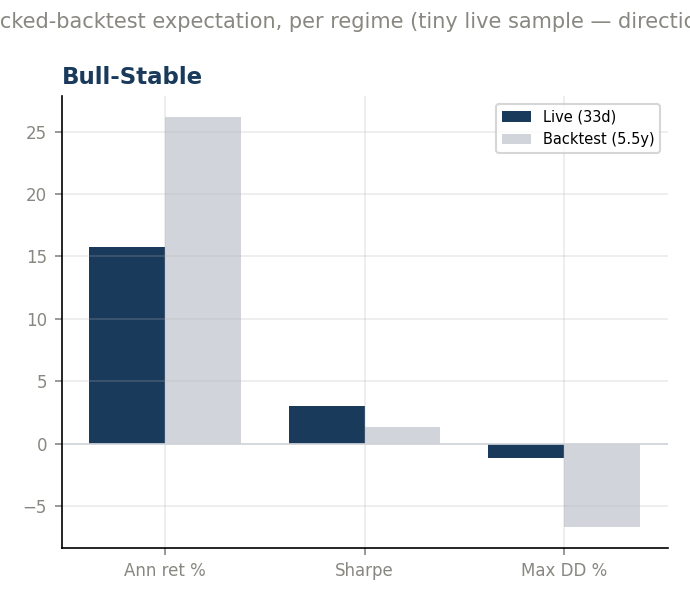
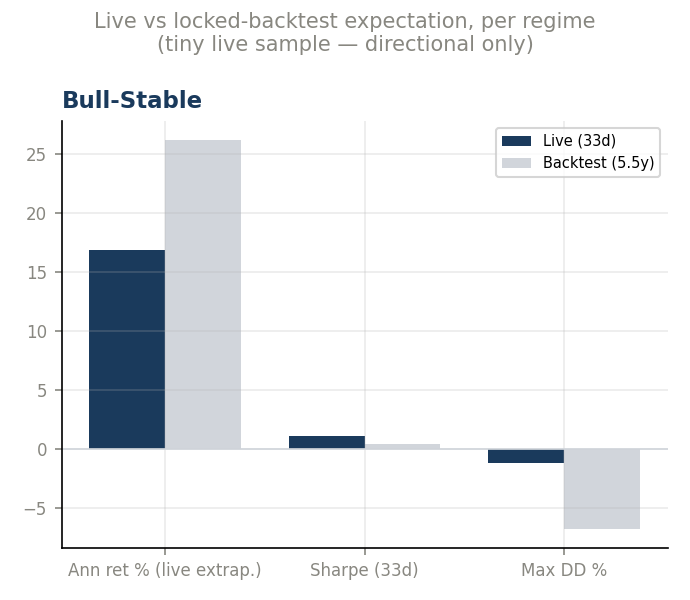
Month-end: measure risk metrics over actual trading days; extrapolate only ann. return
Sharpe, Sortino, Calmar and volatility are now computed over the days
actually traded (not annualized); annual return is the only annualized
figure and is labelled as an extrapolation (period return compounded to
252 days). Sortino uses the standard downside deviation. The backtest's
annual Sharpe is scaled to the live horizon for a like-for-like
comparison. Reports for 2026-07/08/09 and the README updated.

diff --git a/8_live_trading/aria_momentum_month_end.py b/8_live_trading/aria_momentum_month_end.py
@@ -130,6 +130,36 @@ def cross_check(hist, eq):
 # ══════════════════════════════════════════════════════════════════════════════
 # QUANT METRICS  (from daily_history.csv)
 # ══════════════════════════════════════════════════════════════════════════════
+def period_stats(r, eqv) -> dict:
+    """Risk/return over the ACTUAL trading days only — nothing annualized
+    except ann_ret, which is an explicit extrapolation.
+
+      period_ret  compounded return over the n days
+      ann_ret     EXTRAPOLATED: (1 + period_ret)^(252/n) − 1 — what the period
+                  return would compound to over a year if repeated; a
+                  projection, not a measurement
+      period_vol  daily stdev × √n             (volatility over the period)
+      sharpe      mean / stdev × √n            (period Sharpe, rf = 0)
+      sortino     mean / downside dev × √n     downside dev = √mean(min(r,0)²)
+      calmar      period_ret / |max drawdown|  (same window, no annualizing)
+    """
+    r = np.asarray(r, dtype=float)
+    r = r[~np.isnan(r)]
+    n = len(r)
+    out = {"n_obs": n}
+    out["period_ret"] = (np.prod(1 + r) - 1) * 100
+    out["ann_ret"]    = ((1 + out["period_ret"] / 100) ** (TRADING_DAYS / n) - 1) * 100 if n else np.nan
+    mu, sd = (r.mean(), r.std(ddof=1)) if n > 1 else (np.nan, np.nan)
+    dsd = np.sqrt(np.mean(np.minimum(r, 0) ** 2)) if n else np.nan
+    out["period_vol"] = sd * np.sqrt(n) * 100 if sd > 0 else np.nan
+    out["sharpe"]     = mu / sd * np.sqrt(n) if sd > 0 else np.nan
+    out["sortino"]    = mu / dsd * np.sqrt(n) if dsd > 0 else np.nan
+    eqv = np.asarray(eqv, dtype=float)
+    out["max_dd"] = (eqv / np.maximum.accumulate(eqv) - 1).min() * 100 if len(eqv) > 1 else 0.0
+    out["calmar"] = out["period_ret"] / abs(out["max_dd"]) if out["max_dd"] < 0 else np.nan
+    return out
+
+
 def quant_metrics(hist: pd.DataFrame) -> dict:
     m = {}
     m["start"], m["end"] = hist["date"].iloc[0], hist["date"].iloc[-1]
@@ -150,19 +180,11 @@ def quant_metrics(hist: pd.DataFrame) -> dict:
     m["alpha_spy"] = hist["alpha_vs_spy"].iloc[-1]
     m["alpha_qqq"] = hist["alpha_vs_qqq"].iloc[-1]
 
-    mu, sd = np.nanmean(r), np.nanstd(r, ddof=1)
-    dn_dev = np.nanstd(np.minimum(r, 0), ddof=1)
-    m["ann_ret"] = mu * TRADING_DAYS * 100
-    m["ann_vol"] = sd * np.sqrt(TRADING_DAYS) * 100 if sd > 0 else np.nan
-    m["sharpe"]  = mu / sd * np.sqrt(TRADING_DAYS) if sd > 0 else np.nan
-    m["sortino"] = mu / dn_dev * np.sqrt(TRADING_DAYS) if dn_dev > 0 else np.nan
-
     eqv  = hist["equity"].values
     peak = np.maximum.accumulate(eqv)
     dd   = eqv / peak - 1
     m["dd_series"] = dd * 100
-    m["max_dd"]    = dd.min() * 100
-    m["calmar"]    = m["ann_ret"] / abs(m["max_dd"]) if m["max_dd"] < 0 else np.nan
+    m.update(period_stats(r, eqv))
 
     mask = ~np.isnan(r) & ~np.isnan(spy_r)
     if mask.sum() > 2 and np.nanstd(spy_r[mask]) > 0:
@@ -202,16 +224,11 @@ def regime_attribution(hist: pd.DataFrame) -> pd.DataFrame:
     rows = []
     for regime, g in hist.groupby("regime"):
         r = g["daily_pnl_pct"].values / 100.0
-        n = len(g)
-        mu, sd = np.nanmean(r), np.nanstd(r, ddof=1) if n > 1 else np.nan
-        eqv = g["equity"].values
-        dd = (eqv / np.maximum.accumulate(eqv) - 1).min() * 100 if n > 1 else 0.0
+        s = period_stats(r, g["equity"].values)
         rows.append({
-            "regime": regime, "days": n,
-            "period_ret": (np.prod(1 + np.nan_to_num(r)) - 1) * 100,
-            "ann_ret": mu * TRADING_DAYS * 100,
-            "sharpe": (mu / sd * np.sqrt(TRADING_DAYS)) if sd and sd > 0 else np.nan,
-            "max_dd": dd,
+            "regime": regime, "days": len(g),
+            "period_ret": s["period_ret"], "ann_ret": s["ann_ret"],
+            "sharpe": s["sharpe"], "max_dd": s["max_dd"],
             "hit_rate": (r > 0).sum() / max((r != 0).sum(), 1) * 100,
         })
     out = pd.DataFrame(rows).sort_values("days", ascending=False).reset_index(drop=True)
@@ -227,10 +244,14 @@ def backtest_parity(reg_attr: pd.DataFrame) -> pd.DataFrame:
         bt = BACKTEST["regimes"].get(r["regime"])
         if bt is None:
             continue
+        # Live Sharpe covers only the live days; the backtest's is annual.
+        # Sharpe scales with √time, so put the backtest on the same horizon.
+        horizon = np.sqrt(r["days"] / TRADING_DAYS)
         rows.append({
             "regime": r["regime"], "days_live": r["days"],
             "live_ann": r["ann_ret"],  "bt_ann": bt["ann_ret"],
-            "live_sharpe": r["sharpe"], "bt_sharpe": bt["sharpe"],
+            "live_sharpe": r["sharpe"], "bt_sharpe": bt["sharpe"] * horizon,
+            "bt_sharpe_annual": bt["sharpe"],
             "live_dd": r["max_dd"],     "bt_dd": bt["max_dd"],
         })
     return pd.DataFrame(rows)
@@ -565,7 +586,7 @@ def make_charts(hist, qm, reg_attr, parity, trips, opos, mbm, outdir: Path, infl
         fig, axes = plt.subplots(1, len(parity), figsize=(4.6 * len(parity), 4),
                                  squeeze=False)
         for ax, (_, row) in zip(axes[0], parity.iterrows()):
-            labels = ["Ann ret %", "Sharpe", "Max DD %"]
+            labels = ["Ann ret % (live extrap.)", f"Sharpe ({int(row['days_live'])}d)", "Max DD %"]
             live = [row["live_ann"], row["live_sharpe"], row["live_dd"]]
             bt   = [row["bt_ann"], row["bt_sharpe"], row["bt_dd"]]
             x = np.arange(3); w = 0.38
@@ -575,7 +596,7 @@ def make_charts(hist, qm, reg_attr, parity, trips, opos, mbm, outdir: Path, infl
             ax.axhline(0, color=MGREY, lw=0.8)
             ax.legend(fontsize=7)
             _style(ax, f"{row['regime']}")
-        plt.suptitle("Live vs locked-backtest expectation, per regime "
+        plt.suptitle("Live vs locked-backtest expectation, per regime\n"
                      "(tiny live sample — directional only)",
                      fontsize=10, color=GREY)
         plt.tight_layout()
@@ -756,12 +777,18 @@ def write_report(qm, reg_attr, parity, trips, opos, mbm, hold_note, xcheck,
               f"{r['real_ret_pct']:+.2f}% | {'est.' if r['cpi_is_estimate'] else 'actual'} |")
         A("")
 
-    A("## Risk-adjusted (annualized from daily — small sample!)")
+    A(f"## Risk-adjusted (over the {qm['n_obs']} trading days — not annualized)")
+    A(f"_Sharpe, Sortino, Calmar and volatility are measured over the "
+      f"{qm['n_obs']} trading days actually traded (rf = 0). The only "
+      f"annualized figure is **Ann. return**, an EXTRAPOLATION: the period "
+      f"return compounded to 252 trading days, i.e. what a full year would "
+      f"look like if this pace held — a projection, not a measurement._\n")
+    A(f"- Period return **{qm['period_ret']:+.2f}%** · period volatility "
+      f"{qm['period_vol']:.2f}% · max drawdown **{qm['max_dd']:.2f}%** "
+      f"(backtest budget {BACKTEST['max_dd']}%)")
     A(f"- Sharpe **{qm['sharpe']:.2f}** · Sortino **{qm['sortino']:.2f}** · "
       f"Calmar {qm['calmar']:.2f}")
-    A(f"- Ann. return {qm['ann_ret']:+.1f}% · ann. vol {qm['ann_vol']:.1f}% · "
-      f"max drawdown **{qm['max_dd']:.2f}%** "
-      f"(backtest budget {BACKTEST['max_dd']}%)")
+    A(f"- Ann. return (extrapolated) {qm['ann_ret']:+.1f}%")
     A(f"- Beta vs SPY {qm['beta_spy']:.2f} (corr {qm['corr_spy']:.2f}) · "
       f"up-capture {qm['up_capture']:.0f}% · down-capture {qm['down_capture']:.0f}%")
     A(f"- Hit rate {qm['hit_rate']:.0f}% ({qm['win_days']}W/{qm['lose_days']}L) · "
@@ -769,7 +796,7 @@ def write_report(qm, reg_attr, parity, trips, opos, mbm, hold_note, xcheck,
     A(f"- Avg capital deployed {qm['avg_deployed']:.0f}%\n")
 
     A("## Regime attribution  *(signature)*")
-    A("| Regime | Days | Period ret | Ann ret | Sharpe | Max DD | Hit |")
+    A("| Regime | Days | Period ret | Ann ret (extrap.) | Sharpe (period) | Max DD | Hit |")
     A("|---|---|---|---|---|---|---|")
     for _, r in reg_attr.iterrows():
         A(f"| {r['regime']} | {int(r['days'])} | {r['period_ret']:+.2f}% | "
@@ -779,14 +806,18 @@ def write_report(qm, reg_attr, parity, trips, opos, mbm, hold_note, xcheck,
 
     A("## Backtest parity  *(signature)*")
     A("_Live per-regime vs the locked 95.55% backtest's expectation for the "
-      "same regime. With days this few, read direction, not magnitude._\n")
+      "same regime. With days this few, read direction, not magnitude. "
+      "Live ann. return is extrapolated from the live days. Live Sharpe covers "
+      "only the live days, so the backtest's annual Sharpe is scaled to the "
+      "same horizon (× √(days/252)) to compare like with like._\n")
     if len(parity):
-        A("| Regime | Live days | Live ann | BT ann | Live Sharpe | BT Sharpe | Live DD | BT DD |")
+        A("| Regime | Live days | Live ann (extrap.) | BT ann | Live Sharpe | "
+          "BT Sharpe, same horizon (annual) | Live DD | BT DD |")
         A("|---|---|---|---|---|---|---|---|")
         for _, r in parity.iterrows():
             A(f"| {r['regime']} | {int(r['days_live'])} | {r['live_ann']:+.1f}% | "
-              f"{r['bt_ann']:+.1f}% | {r['live_sharpe']:.2f} | {r['bt_sharpe']:.2f} | "
-              f"{r['live_dd']:.2f}% | {r['bt_dd']:.2f}% |")
+              f"{r['bt_ann']:+.1f}% | {r['live_sharpe']:.2f} | {r['bt_sharpe']:.2f} "
+              f"({r['bt_sharpe_annual']:.2f}) | {r['live_dd']:.2f}% | {r['bt_dd']:.2f}% |")
     else:
         A("No overlapping regimes yet.")
     A("")
@@ -877,7 +908,9 @@ def main():
     print(f"  Return   : {qm['total_ret']:+.2f}%   "
           f"(SPY {qm['spy_since']:+.2f}%, QQQ {qm['qqq_since']:+.2f}%)")
     print(f"  Alpha    : vs SPY {qm['alpha_spy']:+.2f}pp | vs QQQ {qm['alpha_qqq']:+.2f}pp")
-    print(f"  Sharpe   : {qm['sharpe']:.2f}   Sortino {qm['sortino']:.2f}   "
+    print(f"  Period   : {qm['n_obs']}d  Sharpe {qm['sharpe']:.2f}   Sortino {qm['sortino']:.2f}   "
+          f"Calmar {qm['calmar']:.2f}   vol {qm['period_vol']:.2f}%  (not annualized)")
+    print(f"  Ann. ret : {qm['ann_ret']:+.1f}% (extrapolated)   "
           f"MaxDD {qm['max_dd']:.2f}%  (backtest budget {BACKTEST['max_dd']}%)")
     print(f"  Beta     : {qm['beta_spy']:.2f}   up-cap {qm['up_capture']:.0f}%  "
           f"down-cap {qm['down_capture']:.0f}%")

diff --git a/8_live_trading/month_end/2026-07/report_2026-07.md b/8_live_trading/month_end/2026-07/report_2026-07.md
@@ -1,6 +1,6 @@
 # ARIA-Momentum — Month-End Review 2026-07
 
-_Generated 2026-10-01 11:43 · inception 2026-06-15 → 2026-07-31 · 33 trading days · read-only analysis._
+_Generated 2026-10-01 11:57 · inception 2026-06-15 → 2026-07-31 · 33 trading days · read-only analysis._
 
 > **Sample-size caveat:** a few weeks of live data verifies the machinery and shows behavior; it cannot prove or disprove the edge validated over 5.5 backtest years. Every number below is indicative, not conclusive — especially while the book has traded in only 1 regime(s).
 
@@ -32,24 +32,27 @@ Month-end snapshots (full per-day series in `inflation_real_value.csv`):
 | 2026-06-30 | 100.43 | 100.39 | +0.03% | +0.43% | +0.39% | actual |
 | 2026-07-31 | 102.17 | 101.89 | +0.28% | +2.17% | +1.89% | actual |
 
-## Risk-adjusted (annualized from daily — small sample!)
-- Sharpe **3.04** · Sortino **7.05** · Calmar 13.18
-- Ann. return +15.8% · ann. vol 5.2% · max drawdown **-1.20%** (backtest budget -6.82%)
+## Risk-adjusted (over the 33 trading days — not annualized)
+_Sharpe, Sortino, Calmar and volatility are measured over the 33 trading days actually traded (rf = 0). The only annualized figure is **Ann. return**, an EXTRAPOLATION: the period return compounded to 252 trading days, i.e. what a full year would look like if this pace held — a projection, not a measurement._
+
+- Period return **+2.07%** · period volatility 1.87% · max drawdown **-1.20%** (backtest budget -6.82%)
+- Sharpe **1.10** · Sortino **2.15** · Calmar 1.73
+- Ann. return (extrapolated) +16.9%
 - Beta vs SPY 0.18 (corr 0.43) · up-capture 21% · down-capture 1%
 - Hit rate 45% (15W/18L) · best day +0.81% · worst -0.54%
 - Avg capital deployed 25%
 
 ## Regime attribution  *(signature)*
-| Regime | Days | Period ret | Ann ret | Sharpe | Max DD | Hit |
+| Regime | Days | Period ret | Ann ret (extrap.) | Sharpe (period) | Max DD | Hit |
 |---|---|---|---|---|---|---|
-| Bull-Stable | 33 | +2.07% | +15.8% | 3.04 | -1.20% | 45% |
+| Bull-Stable | 33 | +2.07% | +16.9% | 1.10 | -1.20% | 45% |
 
 ## Backtest parity  *(signature)*
-_Live per-regime vs the locked 95.55% backtest's expectation for the same regime. With days this few, read direction, not magnitude._
+_Live per-regime vs the locked 95.55% backtest's expectation for the same regime. With days this few, read direction, not magnitude. Live ann. return is extrapolated from the live days. Live Sharpe covers only the live days, so the backtest's annual Sharpe is scaled to the same horizon (× √(days/252)) to compare like with like._
 
-| Regime | Live days | Live ann | BT ann | Live Sharpe | BT Sharpe | Live DD | BT DD |
+| Regime | Live days | Live ann (extrap.) | BT ann | Live Sharpe | BT Sharpe, same horizon (annual) | Live DD | BT DD |
 |---|---|---|---|---|---|---|---|
-| Bull-Stable | 33 | +15.8% | +26.2% | 3.04 | 1.33 | -1.20% | -6.72% |
+| Bull-Stable | 33 | +16.9% | +26.2% | 1.10 | 0.48 (1.33) | -1.20% | -6.72% |
 
 ## Trades
 10 closed round trips: 5W / 5L. Losers avg hold 5.0d (fast loser exits = min-hold design working). Winners avg hold 8.4d. Note: min-hold HOLD events (skipped sells on profitable young positions) print to console but are not CSV-logged, so churn AVOIDED is not directly countable here.

diff --git a/8_live_trading/month_end/2026-08/report_2026-08.md b/8_live_trading/month_end/2026-08/report_2026-08.md
@@ -1,6 +1,6 @@
 # ARIA-Momentum — Month-End Review 2026-08
 
-_Generated 2026-10-01 11:43 · inception 2026-06-15 → 2026-08-31 · 54 trading days · read-only analysis._
+_Generated 2026-10-01 11:57 · inception 2026-06-15 → 2026-08-31 · 54 trading days · read-only analysis._
 
 > **Sample-size caveat:** a few weeks of live data verifies the machinery and shows behavior; it cannot prove or disprove the edge validated over 5.5 backtest years. Every number below is indicative, not conclusive — especially while the book has traded in only 1 regime(s).
 
@@ -34,24 +34,27 @@ Month-end snapshots (full per-day series in `inflation_real_value.csv`):
 | 2026-07-31 | 102.17 | 101.89 | +0.28% | +2.17% | +1.89% | actual |
 | 2026-08-31 | 104.08 | 103.58 | +0.48% | +4.08% | +3.58% | est. |
 
-## Risk-adjusted (annualized from daily — small sample!)
-- Sharpe **3.99** · Sortino **9.73** · Calmar 15.30
-- Ann. return +18.3% · ann. vol 4.6% · max drawdown **-1.20%** (backtest budget -6.82%)
+## Risk-adjusted (over the 54 trading days — not annualized)
+_Sharpe, Sortino, Calmar and volatility are measured over the 54 trading days actually traded (rf = 0). The only annualized figure is **Ann. return**, an EXTRAPOLATION: the period return compounded to 252 trading days, i.e. what a full year would look like if this pace held — a projection, not a measurement._
+
+- Period return **+3.97%** · period volatility 2.12% · max drawdown **-1.20%** (backtest budget -6.82%)
+- Sharpe **1.85** · Sortino **3.91** · Calmar 3.32
+- Ann. return (extrapolated) +19.9%
 - Beta vs SPY 0.12 (corr 0.31) · up-capture 20% · down-capture -4%
 - Hit rate 54% (29W/25L) · best day +0.81% · worst -0.54%
 - Avg capital deployed 22%
 
 ## Regime attribution  *(signature)*
-| Regime | Days | Period ret | Ann ret | Sharpe | Max DD | Hit |
+| Regime | Days | Period ret | Ann ret (extrap.) | Sharpe (period) | Max DD | Hit |
 |---|---|---|---|---|---|---|
-| Bull-Stable | 54 | +3.97% | +18.3% | 3.99 | -1.20% | 54% |
+| Bull-Stable | 54 | +3.97% | +19.9% | 1.85 | -1.20% | 54% |
 
 ## Backtest parity  *(signature)*
-_Live per-regime vs the locked 95.55% backtest's expectation for the same regime. With days this few, read direction, not magnitude._
+_Live per-regime vs the locked 95.55% backtest's expectation for the same regime. With days this few, read direction, not magnitude. Live ann. return is extrapolated from the live days. Live Sharpe covers only the live days, so the backtest's annual Sharpe is scaled to the same horizon (× √(days/252)) to compare like with like._
 
-| Regime | Live days | Live ann | BT ann | Live Sharpe | BT Sharpe | Live DD | BT DD |
+| Regime | Live days | Live ann (extrap.) | BT ann | Live Sharpe | BT Sharpe, same horizon (annual) | Live DD | BT DD |
 |---|---|---|---|---|---|---|---|
-| Bull-Stable | 54 | +18.3% | +26.2% | 3.99 | 1.33 | -1.20% | -6.72% |
+| Bull-Stable | 54 | +19.9% | +26.2% | 1.85 | 0.62 (1.33) | -1.20% | -6.72% |
 
 ## Trades
 14 closed round trips: 8W / 6L. Losers avg hold 5.5d (fast loser exits = min-hold design working). Winners avg hold 13.9d. Note: min-hold HOLD events (skipped sells on profitable young positions) print to console but are not CSV-logged, so churn AVOIDED is not directly countable here.

diff --git a/8_live_trading/month_end/2026-09/report_2026-09.md b/8_live_trading/month_end/2026-09/report_2026-09.md
@@ -1,6 +1,6 @@
 # ARIA-Momentum — Month-End Review 2026-09
 
-_Generated 2026-10-01 11:43 · inception 2026-06-15 → 2026-09-30 · 75 trading days · read-only analysis._
+_Generated 2026-10-01 11:57 · inception 2026-06-15 → 2026-09-30 · 75 trading days · read-only analysis._
 
 > **Sample-size caveat:** a few weeks of live data verifies the machinery and shows behavior; it cannot prove or disprove the edge validated over 5.5 backtest years. Every number below is indicative, not conclusive — especially while the book has traded in only 1 regime(s).
 
@@ -36,24 +36,27 @@ Month-end snapshots (full per-day series in `inflation_real_value.csv`):
 | 2026-08-31 | 104.08 | 103.58 | +0.48% | +4.08% | +3.58% | est. |
 | 2026-09-30 | 105.57 | 105.05 | +0.49% | +5.57% | +5.05% | est. |
 
-## Risk-adjusted (annualized from daily — small sample!)
-- Sharpe **3.90** · Sortino **9.34** · Calmar 15.04
-- Ann. return +18.0% · ann. vol 4.6% · max drawdown **-1.20%** (backtest budget -6.82%)
+## Risk-adjusted (over the 75 trading days — not annualized)
+_Sharpe, Sortino, Calmar and volatility are measured over the 75 trading days actually traded (rf = 0). The only annualized figure is **Ann. return**, an EXTRAPOLATION: the period return compounded to 252 trading days, i.e. what a full year would look like if this pace held — a projection, not a measurement._
+
+- Period return **+5.46%** · period volatility 2.51% · max drawdown **-1.20%** (backtest budget -6.82%)
+- Sharpe **2.13** · Sortino **4.39** · Calmar 4.57
+- Ann. return (extrapolated) +19.6%
 - Beta vs SPY 0.15 (corr 0.38) · up-capture 23% · down-capture -1%
 - Hit rate 55% (41W/34L) · best day +0.81% · worst -0.54%
 - Avg capital deployed 24%
 
 ## Regime attribution  *(signature)*
-| Regime | Days | Period ret | Ann ret | Sharpe | Max DD | Hit |
+| Regime | Days | Period ret | Ann ret (extrap.) | Sharpe (period) | Max DD | Hit |
 |---|---|---|---|---|---|---|
-| Bull-Stable | 75 | +5.46% | +18.0% | 3.90 | -1.20% | 55% |
+| Bull-Stable | 75 | +5.46% | +19.6% | 2.13 | -1.20% | 55% |
 
 ## Backtest parity  *(signature)*
-_Live per-regime vs the locked 95.55% backtest's expectation for the same regime. With days this few, read direction, not magnitude._
+_Live per-regime vs the locked 95.55% backtest's expectation for the same regime. With days this few, read direction, not magnitude. Live ann. return is extrapolated from the live days. Live Sharpe covers only the live days, so the backtest's annual Sharpe is scaled to the same horizon (× √(days/252)) to compare like with like._
 
-| Regime | Live days | Live ann | BT ann | Live Sharpe | BT Sharpe | Live DD | BT DD |
+| Regime | Live days | Live ann (extrap.) | BT ann | Live Sharpe | BT Sharpe, same horizon (annual) | Live DD | BT DD |
 |---|---|---|---|---|---|---|---|
-| Bull-Stable | 75 | +18.0% | +26.2% | 3.90 | 1.33 | -1.20% | -6.72% |
+| Bull-Stable | 75 | +19.6% | +26.2% | 2.13 | 0.73 (1.33) | -1.20% | -6.72% |
 
 ## Trades
 19 closed round trips: 13W / 6L. Losers avg hold 5.5d (fast loser exits = min-hold design working). Winners avg hold 11.8d. Note: min-hold HOLD events (skipped sells on profitable young positions) print to console but are not CSV-logged, so churn AVOIDED is not directly countable here.

diff --git a/README.md b/README.md
@@ -536,11 +536,17 @@ measured from the 2026-06-15 open, when capital went live._
 | Return since inception  | **+5.46%** | +1.43%  | +0.23%  |
 | Alpha                    | —          | +4.03pp | +5.23pp |
 
-**Risk-adjusted** (annualized from daily close-to-close returns — small sample):
+**Risk-adjusted** — measured over the 75 trading days actually traded, not
+annualized (daily close-to-close returns, rf = 0):
 
-| Sharpe   | Sortino  | Calmar    | Ann. return | Ann. vol | Max drawdown                       |
-| -------- | -------- | --------- | ----------- | -------- | ----------------------------------- |
-| **3.90** | **9.34** | **15.04** | +18.0%      | 4.6%     | **-1.20%** (backtest budget -6.82%) |
+| Period return | Sharpe   | Sortino  | Calmar   | Period vol | Max drawdown                       | Ann. return (extrapolated) |
+| ------------- | -------- | -------- | -------- | ---------- | ----------------------------------- | -------------------------- |
+| **+5.46%**    | **2.13** | **4.39** | **4.57** | 2.51%      | **-1.20%** (backtest budget -6.82%) | +19.6%                     |
+
+_Only **Ann. return** is annualized, and it is an **extrapolation**: the
+75-day return compounded to 252 trading days — what a full year would look
+like if this pace held, not a measured result. Sharpe/Sortino/vol cover the
+75 days only; Calmar = period return ÷ max drawdown over the same window._
 
 Beta vs SPY 0.15 (corr 0.38) · up-capture 23% / down-capture -1% · hit rate
 55% (41W/34L) · best day +0.81% · worst -0.54% · avg capital deployed 24%.
@@ -564,10 +570,12 @@ annualized; CPI-U, BLS, seasonally adjusted, through the Aug 2026 print with
 September estimated) leaves a **+5.05% real gain** after about $515 of
 purchasing power lost to inflation.
 
-**Live vs backtest, same regime:** Bull-Stable live ann. return +18.0% vs
-the locked backtest's +26.2% for that regime, live Sharpe **3.90** vs
-backtest 1.33, live max DD -1.20% vs backtest -6.72% — live continues to
-run tighter and more consistent than the backtest expects for this regime.
+**Live vs backtest, same regime:** Bull-Stable live ann. return +19.6%
+(extrapolated from 75 days) vs the locked backtest's +26.2% for that regime;
+live 75-day Sharpe **2.13** vs **0.73** for the backtest over the same
+horizon (its annual 1.33 × √(75/252)); live max DD -1.20% vs backtest -6.72%
+— live continues to run tighter and more consistent than the backtest
+expects for this regime.
 19 closed round trips since go-live: 13W/6L (all 5 closed in September were
 winners), losers avg hold 5.5d (fast loser exits = min-hold design working),
 winners avg hold 11.8d. Book carries three open positions — AMZN +0.9%,
